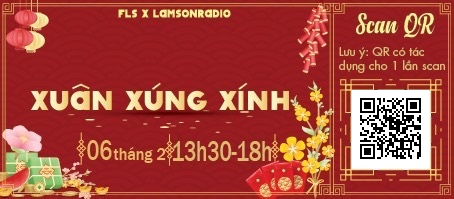
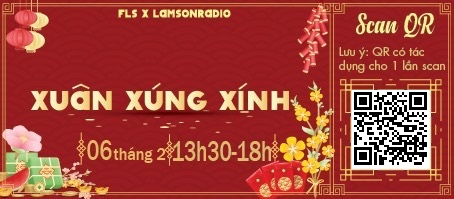
final commit

Changed region(s): [[0.7709, 0.4523, 0.9559, 0.8442]]

diff --git a/online_tickets.py b/online_tickets.py
@@ -1,6 +1,8 @@
 from PIL import Image
 import sqlite3 as sql
-import qrcode
+from QR import QR
+
+
 def extract_ID_and_create_QRCODE():
     conn = sql.connect('sql.db')
     curs = conn.cursor()
@@ -15,8 +17,7 @@ def extract_ID_and_create_QRCODE():
 
 
     for ID in id_values:
-        qr = qrcode.make(ID).save('temp.png')
-        qr = Image.open('temp.png')
+        qr = QR(ID)
         qr = qr.resize((77, 77))
         ticket.paste(qr, (352, 90))
         ticket.save(f'QRCODES/online/{index}.png')

diff --git a/QR.py b/QR.py
@@ -1,0 +1,14 @@
+import qrcode
+from qrcode.constants import ERROR_CORRECT_L
+def QR(ID: str):
+    qr = qrcode.QRCode( # type: ignore
+        version=None, 
+        error_correction = ERROR_CORRECT_L, 
+        box_size = 10,
+        border = 1
+    ) 
+
+    qr.add_data(ID)
+    qr.make(fit=True)
+    img = qr.make_image(back_color='white', fill_color='black')
+    return img
